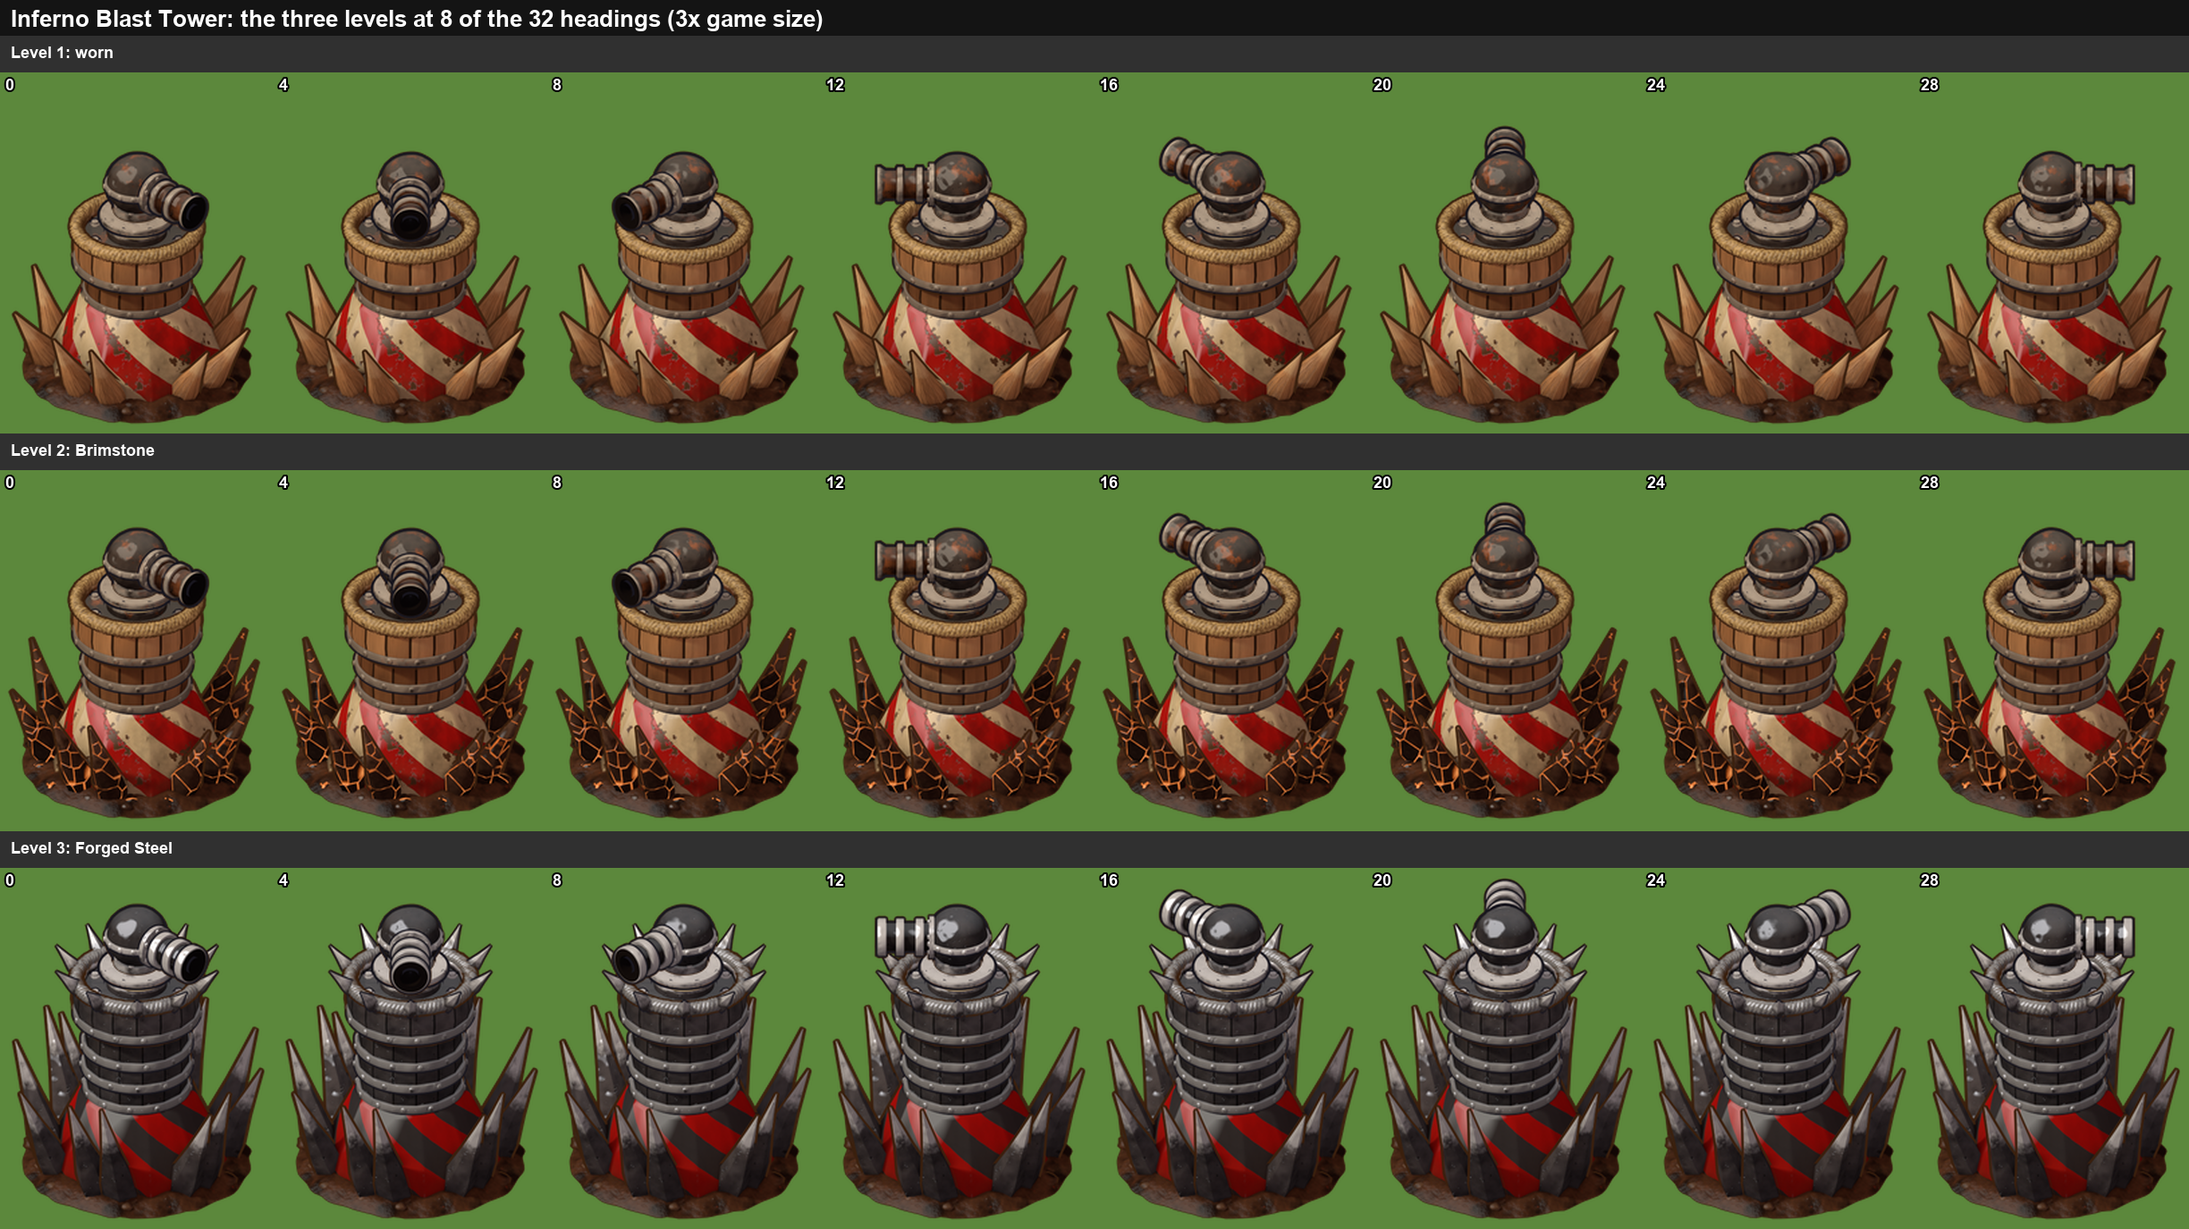
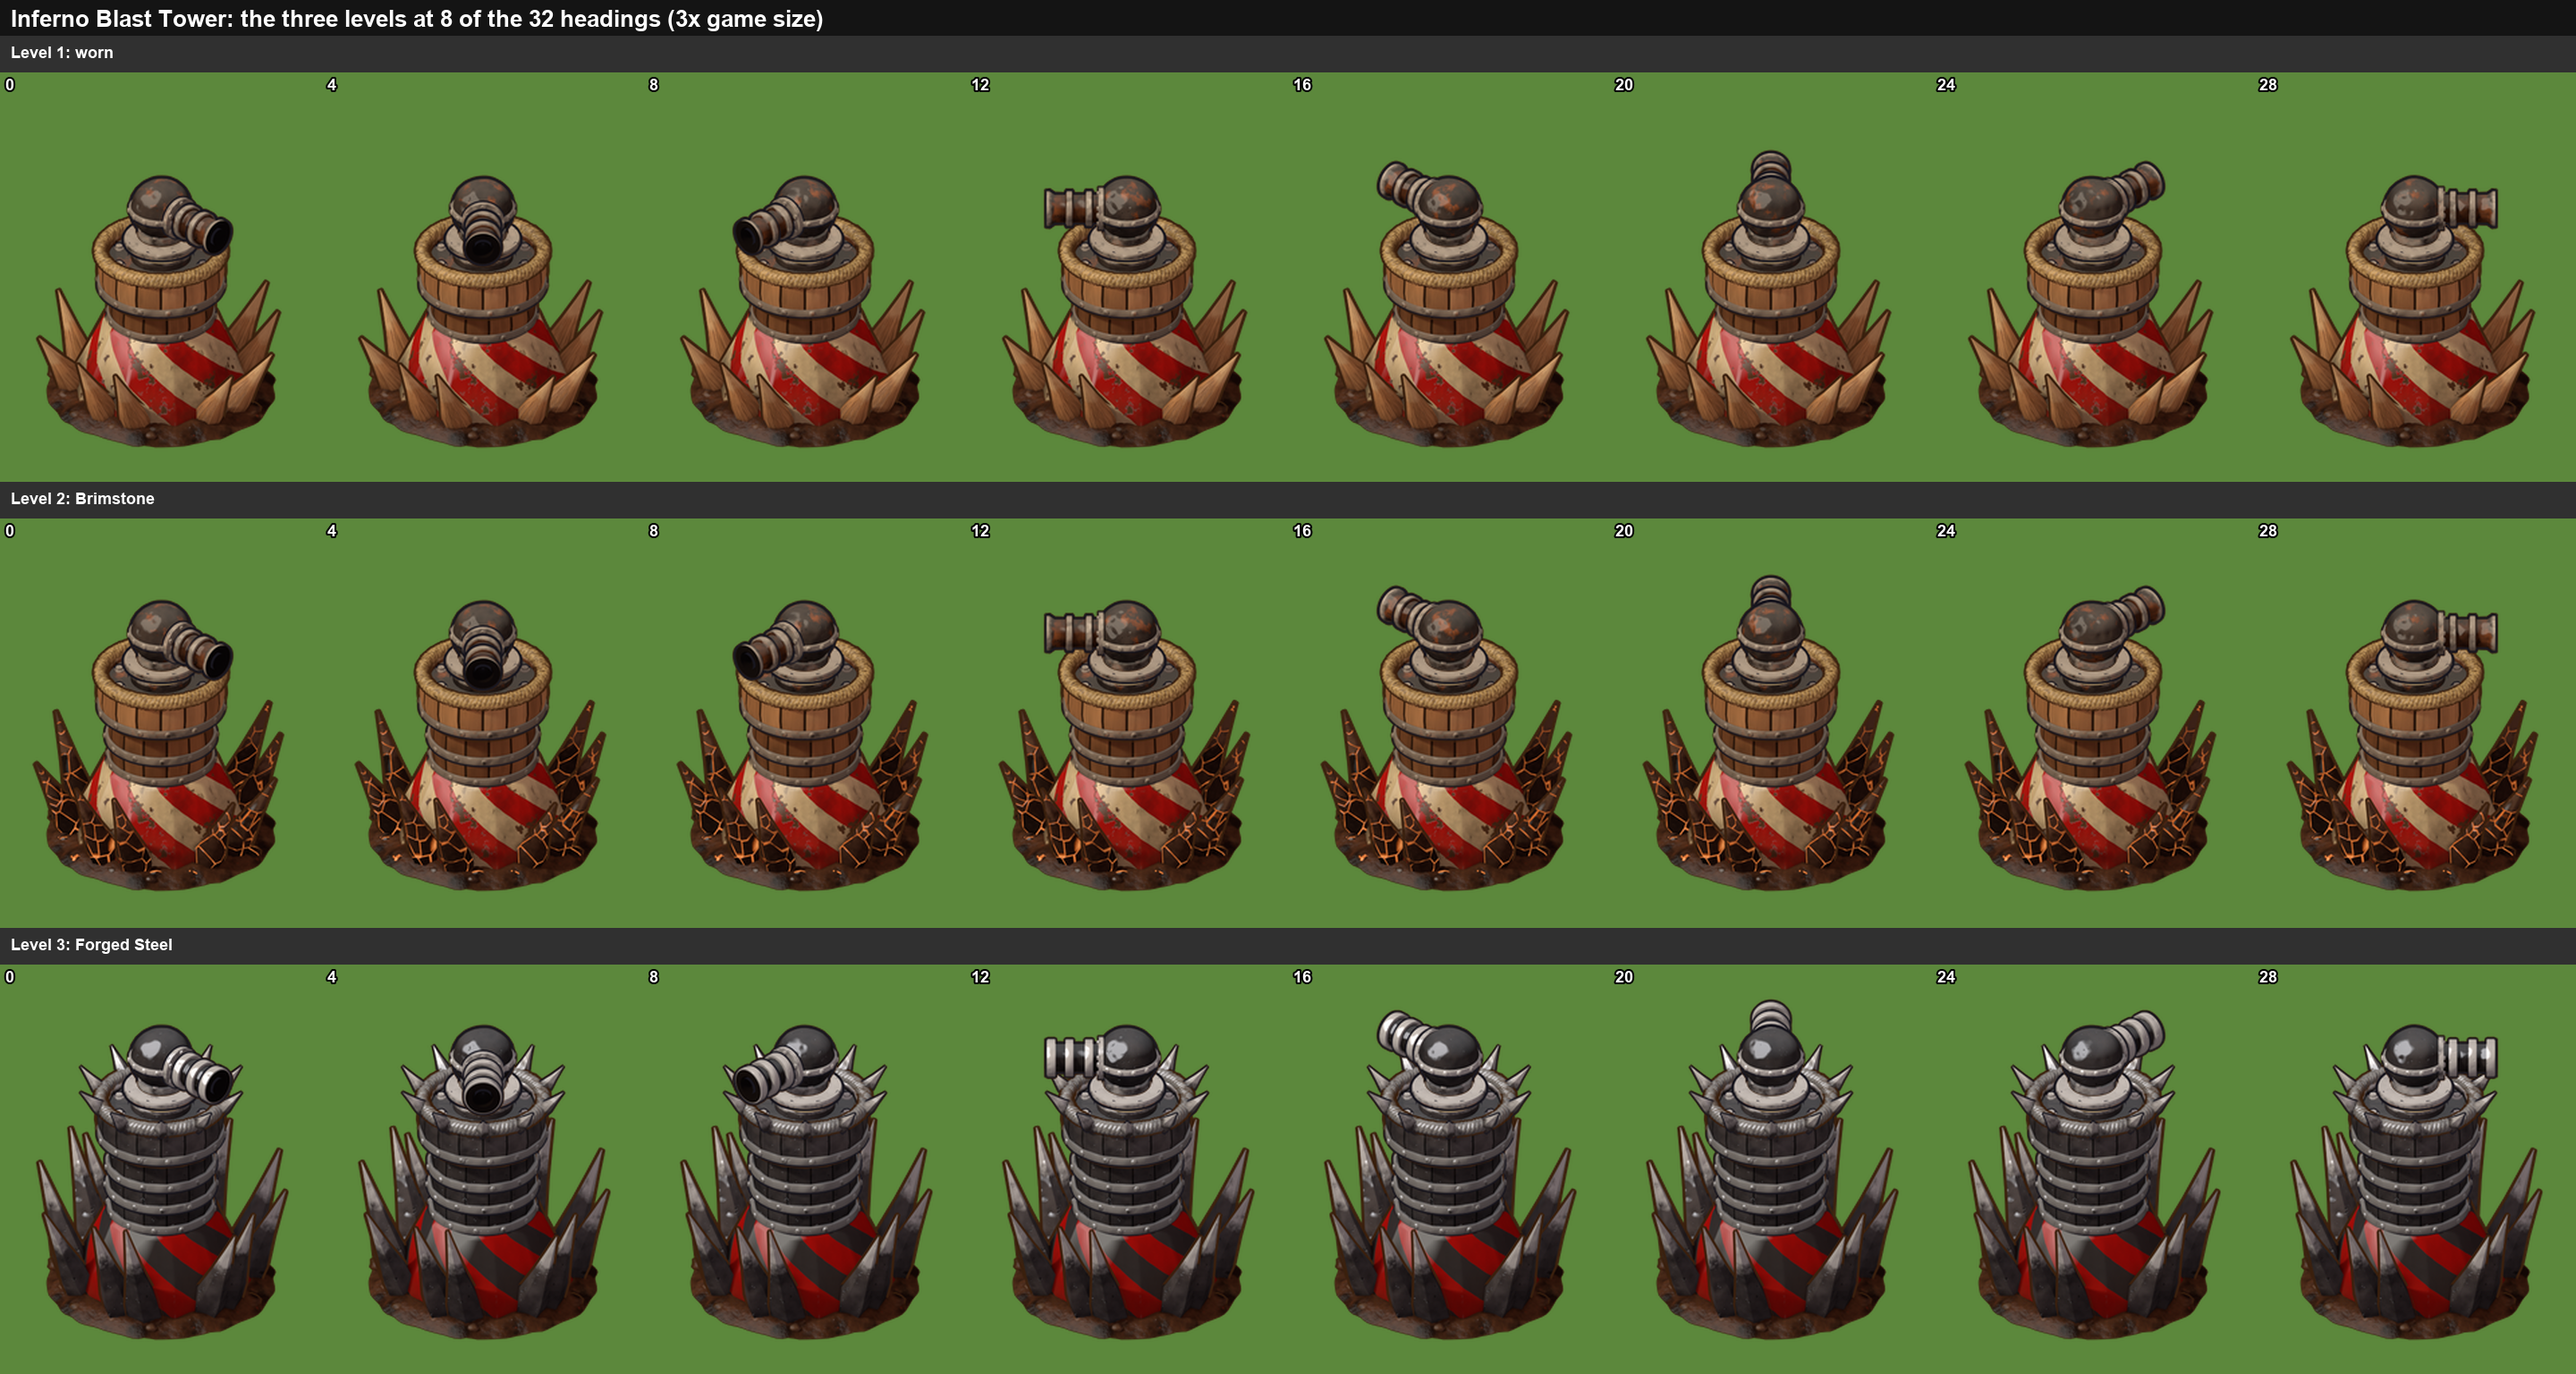
Level contact sheets: wider cell margins so the spike tips no longer meet the next cell
Checked: no render, cut piece or composed frame of either tower (3 levels, 32 headings) has alpha on its edge; only
the sheets' 6 px margin made the spikes look cut. Margin now 24 px; pieces unchanged.

Claude-Session: https://claude.ai/code/session_01YTHpmywxAea5hyoFbwoMtD

diff --git a/art-samples/inferno-3d/levelpost.py b/art-samples/inferno-3d/levelpost.py
@@ -38,7 +38,8 @@ def main():
     levels = [LevelTier(cfg, t, look) for look in (1, 2, 3)]
     heads = list(range(0, 32, 4))
     boxes = [T.frame(k).getbbox() for T in levels for k in heads]
-    crop = (min(b[0] for b in boxes) - 6, min(b[1] for b in boxes) - 6, max(b[2] for b in boxes) + 6, max(b[3] for b in boxes) + 6)
+    m = 24                                            # room round each cell, so no spike tip meets the next cell
+    crop = (min(b[0] for b in boxes) - m, min(b[1] for b in boxes) - m, max(b[2] for b in boxes) + m, max(b[3] for b in boxes) + m)
     cw, ch = crop[2] - crop[0], crop[3] - crop[1]
     bw, bh = int(cw * 1.5), int(ch * 1.5)            # 3x game size (1.5 x the @2x)
     font, small = ImageFont.truetype("arialbd.ttf", 26), ImageFont.truetype("arialbd.ttf", 18)
